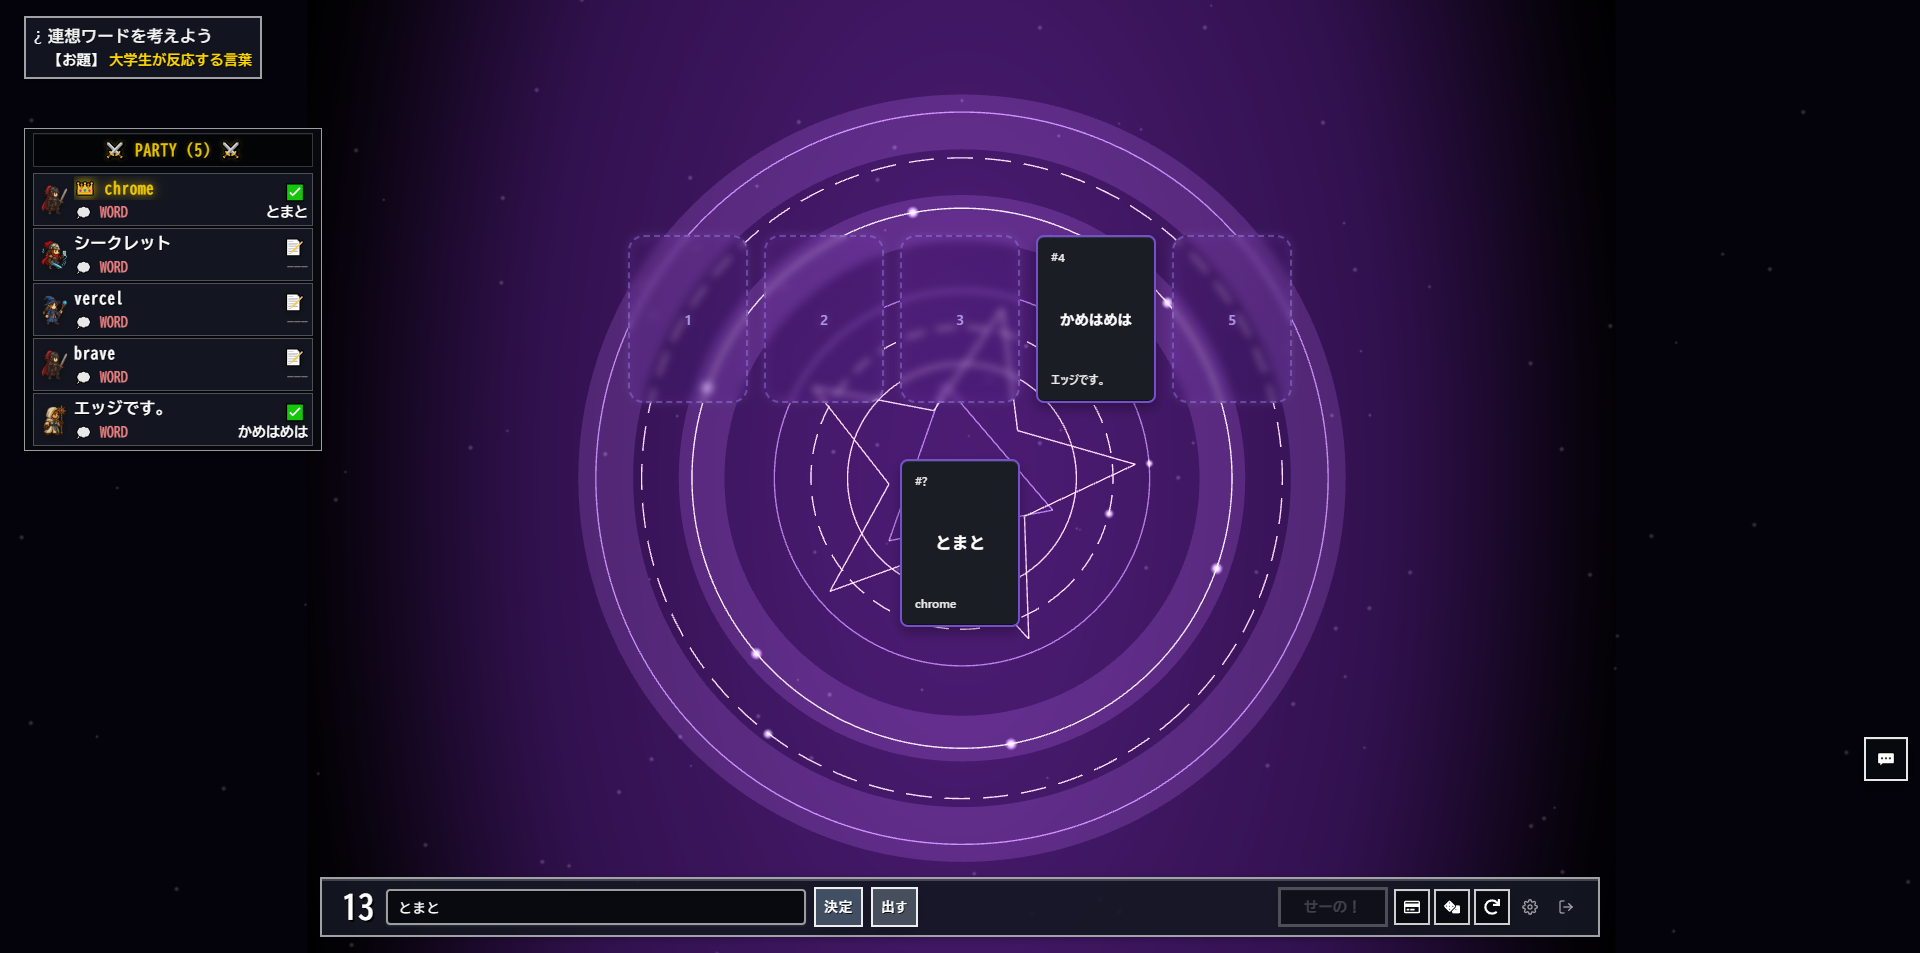
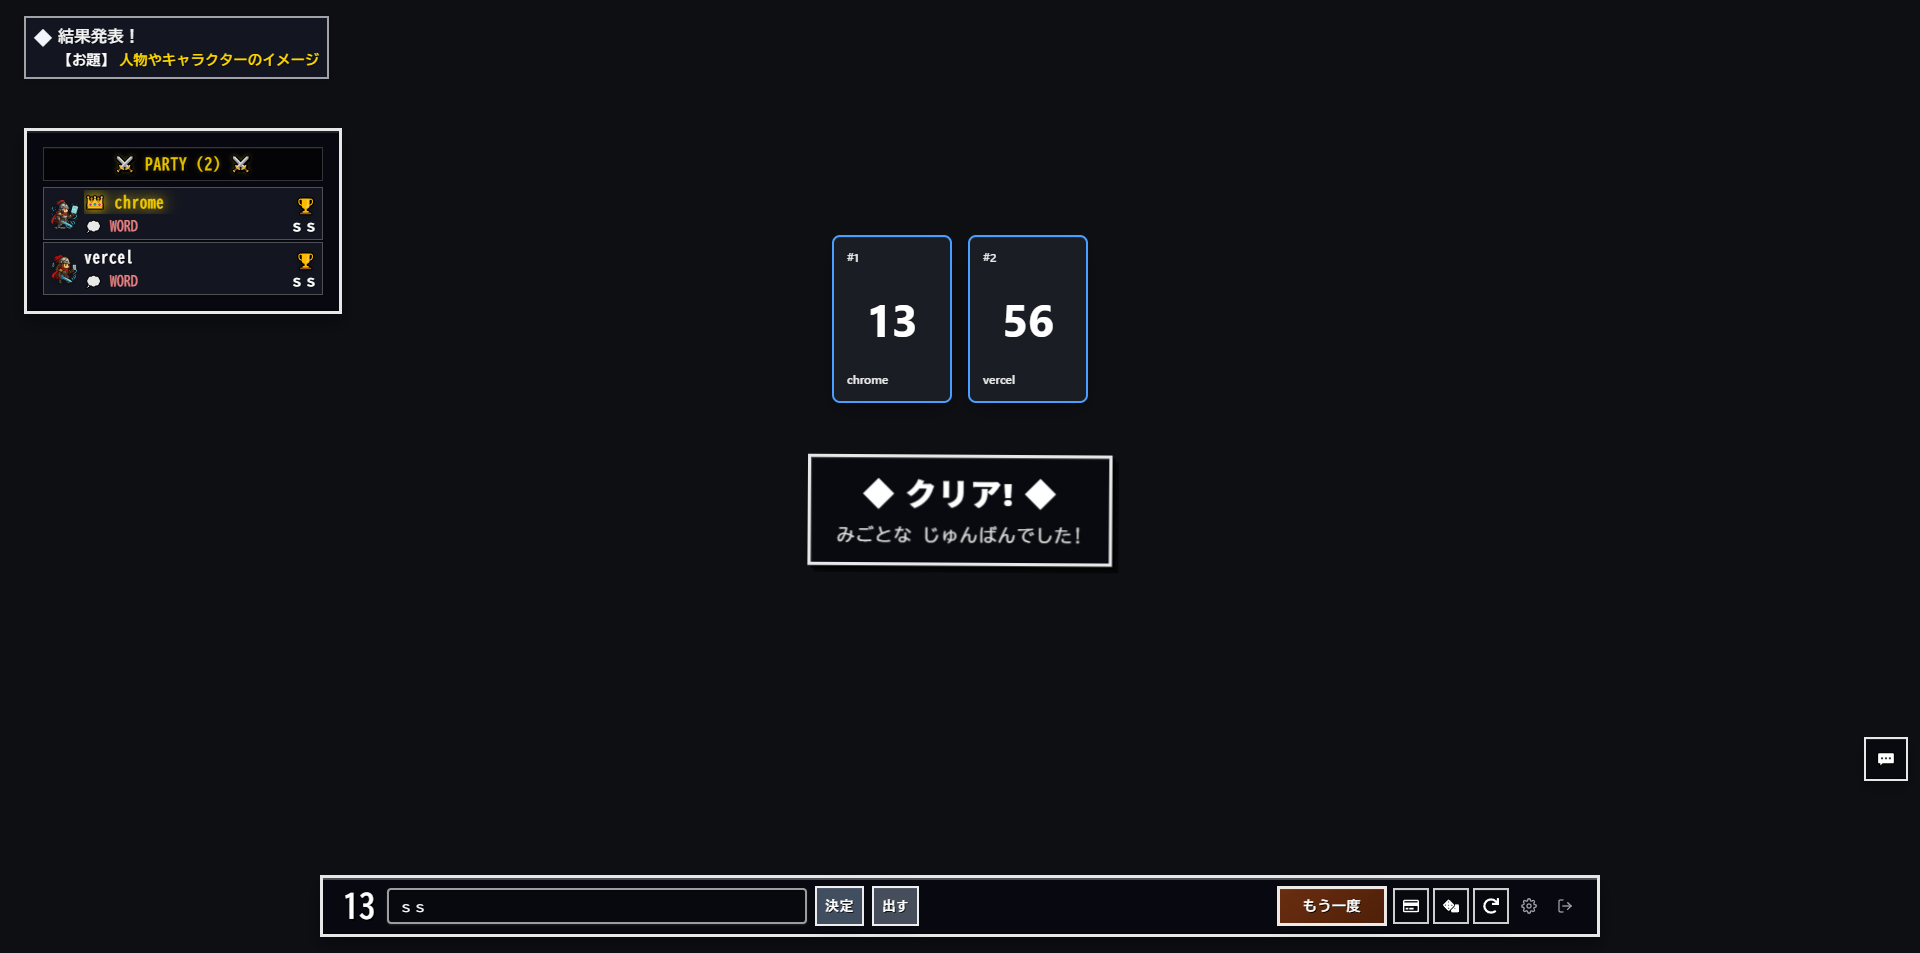
partymenber

diff --git a/components/ui/DragonQuestParty.tsx b/components/ui/DragonQuestParty.tsx
@@ -3,7 +3,7 @@
 import { Box, HStack, Text } from "@chakra-ui/react";
 import { UI_TOKENS } from "@/theme/layout";
 import { gsap } from "gsap";
-import { useEffect, useRef, useState } from "react";
+import { useEffect, useRef } from "react";
 import { notify } from "@/components/ui/notify";
 import { transferHost } from "@/lib/firebase/rooms";
 import { sendSystemMessage } from "@/lib/firebase/chat";
@@ -24,7 +24,6 @@ interface DragonQuestPartyProps {
   onlineCount?: number; // 実際のオンライン参加者数
   onlineUids?: string[]; // オンライン参加者の id 列
   hostId?: string; // ホストのUID
-  variant?: "fixed" | "panel"; // panel: サイドレール内に収めて使う
   roomId?: string; // 手動委譲用
   isHostUser?: boolean; // 自分がホストか
   eligibleIds?: string[]; // ラウンド対象（オンライン）
@@ -70,7 +69,6 @@ export function DragonQuestParty({
   onlineCount,
   onlineUids,
   hostId,
-  variant = "fixed",
   roomId,
   isHostUser,
   eligibleIds,
@@ -153,7 +151,7 @@ export function DragonQuestParty({
           background: "rgba(8,9,15,0.9)",
           border: "3px solid rgba(255,255,255,0.9)",
           borderRadius: 0,
-          padding: "16px",
+          padding: "8px",
           boxShadow: "inset 0 2px 0 rgba(255,255,255,0.1), inset 0 -2px 0 rgba(0,0,0,0.4), 0 8px 16px rgba(0,0,0,0.4)",
           pointerEvents: "auto",
         }}
@@ -162,9 +160,9 @@ export function DragonQuestParty({
         <Box
           bg="rgba(0, 0, 0, 0.6)"
           border={`1px solid rgba(255,255,255,0.2)`}
-          px={3}
-          py={2}
-          mb={3}
+          px={2}
+          py={1}
+          mb={2}
           css={{
             borderRadius: 0,
             boxShadow: "inset 0 1px 0 rgba(255,255,255,0.05)",
@@ -172,14 +170,15 @@ export function DragonQuestParty({
         >
           <Text
             fontSize={{ base: "sm", md: "md" }}
-            fontWeight={700}
-            color="rgba(255, 215, 0, 0.9)"
-            textShadow="1px 1px 0px #000, 0 0 4px rgba(255, 215, 0, 0.3)"
-            letterSpacing="0.5px"
+            fontWeight={600}
+            color="white"
+            textShadow="1px 1px 0px rgba(0,0,0,0.8)"
+            letterSpacing="0.3px"
             fontFamily="monospace"
-            textAlign="center"
+            textAlign="left"
+            pl={1}
           >
-            ⚔ PARTY ({actualCount}) ⚔
+            PARTY ({actualCount})
           </Text>
         </Box>
 
@@ -187,7 +186,7 @@ export function DragonQuestParty({
         <Box
           display="flex"
           flexDirection="column"
-          gap={1}
+          gap={0.25}
           w={{ base: "240px", md: "280px" }}
           css={{ pointerEvents: "auto" }}
         >
@@ -225,16 +224,16 @@ export function DragonQuestParty({
                 <Box
                   key={player.id}
                   data-player-id={player.id}
-                  bg="rgba(20, 23, 34, 0.9)"
-                  border={`1px solid rgba(255,255,255,0.25)`}
+                  bg="rgba(20, 23, 34, 0.8)"
                   borderRadius={0}
                   px={2}
-                  py={1}
+                  py={0.25}
                   w="100%"
                   position="relative"
                   css={{
-                    boxShadow: "0 2px 4px rgba(0,0,0,0.25)",
+                    boxShadow: "0 1px 2px rgba(0,0,0,0.3), inset 0 1px 0 rgba(255, 255, 255, 0.05)",
                     cursor: canTransfer ? "pointer" : "default",
+                    border: isHost ? "1px solid rgba(255, 215, 0, 0.3)" : "1px solid rgba(255,255,255,0.1)",
                   }}
                   onDoubleClick={onTransfer}
                 >
@@ -259,81 +258,123 @@ export function DragonQuestParty({
                           style={{
                             objectFit: 'cover',
                             borderRadius: '4px',
-                            filter: 'drop-shadow(0 2px 4px rgba(0,0,0,0.3))'
+                            filter: 'drop-shadow(0 1px 2px rgba(0,0,0,0.4))'
                           }}
                         />
                       ) : (
-                        fresh.avatar || "⚔"
+                        <Text
+                          fontSize="xl"
+                          filter="drop-shadow(0 1px 2px rgba(0,0,0,0.6))"
+                        >
+                          {fresh.avatar || "⚔"}
+                        </Text>
                       )}
                     </Box>
 
                     {/* プレイヤー情報 */}
-                    <Box display="flex" flexDirection="column" gap={0.5} flex={1} minW={0}>
-                      {/* プレイヤー名 */}
+                    <Box display="flex" flexDirection="column" gap={0} flex={1} minW={0}>
+                      {/* プレイヤー名（強調） */}
                       <Text
-                        fontSize={{ base: "sm", md: "md" }}
-                        fontWeight={700}
-                        color={isHost ? UI_TOKENS.COLORS.accentGold : "white"}
-                        textShadow="1px 1px 0px rgba(0,0,0,0.8)"
+                        fontSize={{ base: "lg", md: "xl" }}
+                        fontWeight={800}
+                        color={isHost ? "#ffd700" : "white"}
+                        textShadow={isHost
+                          ? "0 0 8px rgba(255, 215, 0, 0.8), 1px 1px 2px rgba(0,0,0,0.8)"
+                          : "1px 1px 2px rgba(0,0,0,0.8)"
+                        }
                         fontFamily="monospace"
-                        letterSpacing="0.3px"
+                        letterSpacing="0.4px"
                         truncate
-                        title={`${isHost ? "👑 " : ""}${fresh.name}${canTransfer ? "（ダブルクリックでホスト委譲）" : ""}`}
+                        title={`${isHost ? "ホスト: " : ""}${fresh.name}${canTransfer ? "（ダブルクリックでホスト委譲）" : ""}`}
                         css={
                           isHost
                             ? {
-                                animation: "hostGlow 2s ease-in-out infinite alternate",
-                                textShadow: UI_TOKENS.TEXT_SHADOWS.heroGold,
+                                animation: "hostGlow 4s ease-in-out infinite alternate",
                               }
                             : undefined
                         }
                       >
-                        {isHost ? "👑 " : ""}
                         {fresh.name}
                       </Text>
 
-                      {/* 連想ワード（メイン情報） */}
-                      <HStack justify="space-between" align="center">
-                        <Text
-                          fontSize={{ base: "xs", md: "sm" }}
-                          color="rgba(255, 139, 139, 0.9)"
-                          fontFamily="monospace"
-                          fontWeight={600}
-                        >
-                          💭 WORD
-                        </Text>
-                        <Text
-                          fontSize={{ base: "xs", md: "sm" }}
-                          fontWeight={600}
-                          color={fresh.clue1?.trim() ? "white" : "rgba(255,255,255,0.4)"}
-                          textShadow="1px 1px 0px rgba(0,0,0,0.6)"
-                          fontFamily="monospace"
-                          textAlign="right"
-                          maxW="140px"
-                          truncate
-                          title={fresh.clue1?.trim() || "未入力"}
-                        >
-                          {fresh.clue1?.trim() || "---"}
-                        </Text>
+                      {/* 連想ワード + 状態表示（1行構成） */}
+                      <HStack justify="space-between" align="center" w="100%">
+                        <HStack spacing={1} flex={1} minW={0}>
+                          <Text
+                            fontSize="xs"
+                            color="rgba(255, 139, 139, 0.9)"
+                            fontFamily="monospace"
+                            fontWeight={600}
+                            flexShrink={0}
+                          >
+                            💭
+                          </Text>
+                          <Text
+                            fontSize={{ base: "xs", md: "sm" }}
+                            fontWeight={600}
+                            color={fresh.clue1?.trim() ? "white" : "rgba(255,255,255,0.4)"}
+                            textShadow="1px 1px 0px rgba(0,0,0,0.6)"
+                            fontFamily="monospace"
+                            truncate
+                            flex={1}
+                            title={fresh.clue1?.trim() || "未入力"}
+                          >
+                            {fresh.clue1?.trim() || "---"}
+                          </Text>
+                        </HStack>
+
                       </HStack>
                     </Box>
                   </Box>
 
-                  {/* 状態アイコン（右上に小さく） */}
+                  {/* 状態アイコン（右上・位置統一） */}
                   <Box
                     position="absolute"
-                    top="6px"
+                    top="4px"
                     right="6px"
-                    fontSize={{ base: "sm", md: "md" }}
+                    width="16px"
+                    height="16px"
+                    display="flex"
+                    alignItems="center"
+                    justifyContent="center"
                     title={status}
                   >
-                    <Text
-                      style={{ color }}
-                      filter={UI_TOKENS.FILTERS.dropShadowSoft}
-                    >
-                      {icon}
-                    </Text>
+                    {fresh.ready ? (
+                      <Box
+                        borderRadius="50%"
+                        css={{
+                          background: "#22c55e",
+                          border: "1px solid #16a34a",
+                          boxShadow: "0 1px 2px rgba(0,0,0,0.3)",
+                          width: "100%",
+                          height: "100%",
+                          display: "flex",
+                          alignItems: "center",
+                          justifyContent: "center"
+                        }}
+                      >
+                        <Text
+                          fontSize="xs"
+                          fontWeight={700}
+                          color="white"
+                          textShadow="0 1px 1px rgba(0,0,0,0.8)"
+                        >
+                          ✓
+                        </Text>
+                      </Box>
+                    ) : (
+                      <Text
+                        fontSize="sm"
+                        style={{ color }}
+                        filter="drop-shadow(0 1px 2px rgba(0,0,0,0.6))"
+                        textAlign="center"
+                        lineHeight="16px"
+                      >
+                        {icon}
+                      </Text>
+                    )}
                   </Box>
+
                 </Box>
               );
             })}
